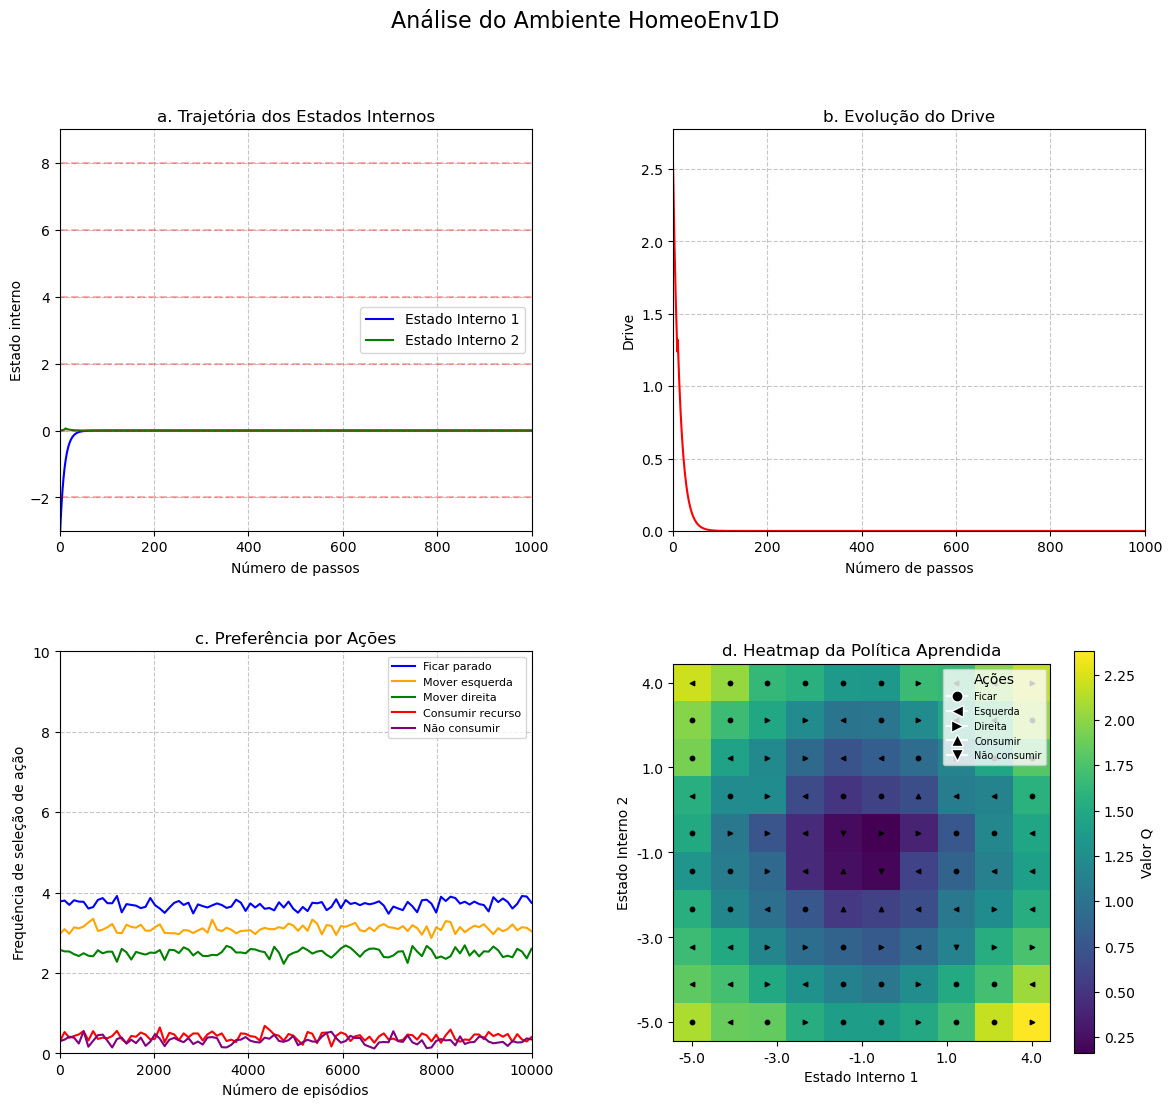
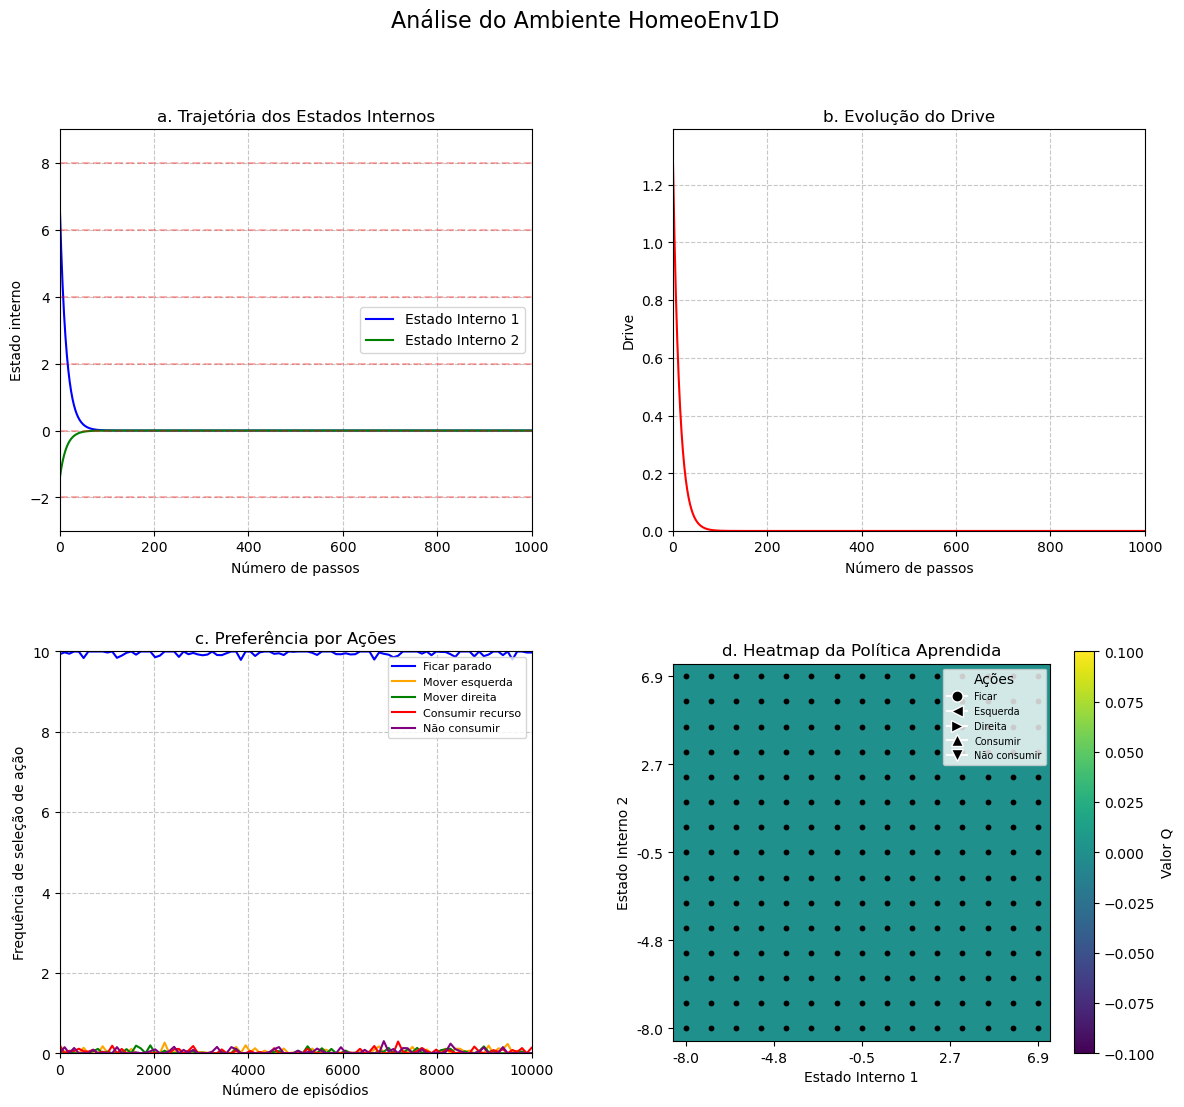
🚑 q_table being created with wrong size !

diff --git a/src/custom_env/one_dimensional.py b/src/custom_env/one_dimensional.py
@@ -39,7 +39,6 @@ class HomeoEnv1D:
         self.agent_position = 0
 
         # Inicializa Q-Learning
-        self.q_table = np.zeros((len(self.state_space), len(self.action_space)))
         self.learning_rate = 0.5
         self.gamma = 0.99
         self.epsilon = 1.0
@@ -54,7 +53,7 @@ class HomeoEnv1D:
         self.training_height = 700
         self.history_max_len = 500
 
-        self.n_bins = 20  # ou outro número que você escolher
+        self.n_bins = 15  # ou outro número que você escolher
         self.bins = [np.linspace(-maxh, maxh, self.n_bins + 1) for _ in range(self.size)]
 
         self.q_table = np.zeros([self.n_bins] * self.size + [len(self.action_space)])
@@ -124,7 +123,7 @@ class HomeoEnv1D:
             self.current_state[resource_index] = min(self.current_state[resource_index] + self._outcome, self.maxh)
             self.consumption_counts[resource_index] += 1
 
-        decay = 0.05
+        decay = 0.07
         for i in range(len(self.current_state)):
             self.current_state[i] = max(self.current_state[i] * (1 - decay), -self.maxh)
 

diff --git a/src/scripts/custom_env/experiment_homeoenv1d1.py b/src/scripts/custom_env/experiment_homeoenv1d1.py
@@ -6,9 +6,9 @@ from src.custom_env.one_dimensional import HomeoEnv1D
 
 def main():
     # === Configurações do Experimento ===
-    maxh = 5
+    maxh = 8
     config_path = "config/config.yaml"
-    drive_type = "brase_drive"  # base_drive, elliptic_drive, etc.
+    drive_type = "base_drive"  # base_drive, elliptic_drive, etc.
     num_episodes = 2000  # Reduzindo para teste
     enable_visualization = False
     

diff --git a/src/scripts/custom_env/analysis_1d.py b/src/scripts/custom_env/analysis_1d.py
@@ -7,7 +7,7 @@ def analyze_agent():
     Cria e analisa o agente HomeoEnv1D usando os métodos de visualização.
     """
     # === Configurações ===
-    maxh = 5
+    maxh = 8
     config_path = "config/config.yaml"
     drive_type = "base_drive"
     q_table_path = "models/custom/HomeoEnv1D/q_table.npy"

diff --git a/src/scripts/custom_env/evaluate_1d.py b/src/scripts/custom_env/evaluate_1d.py
@@ -24,7 +24,7 @@ def save_training_gif(frames, save_path, duration=0.05):
 
 def main():
     # === Configurações ===
-    maxh = 5
+    maxh = 8
     config_path = "config/config.yaml"
     drive_type = "base_drive"
     q_table_path = "models/custom/HomeoEnv1D/q_table.npy"
